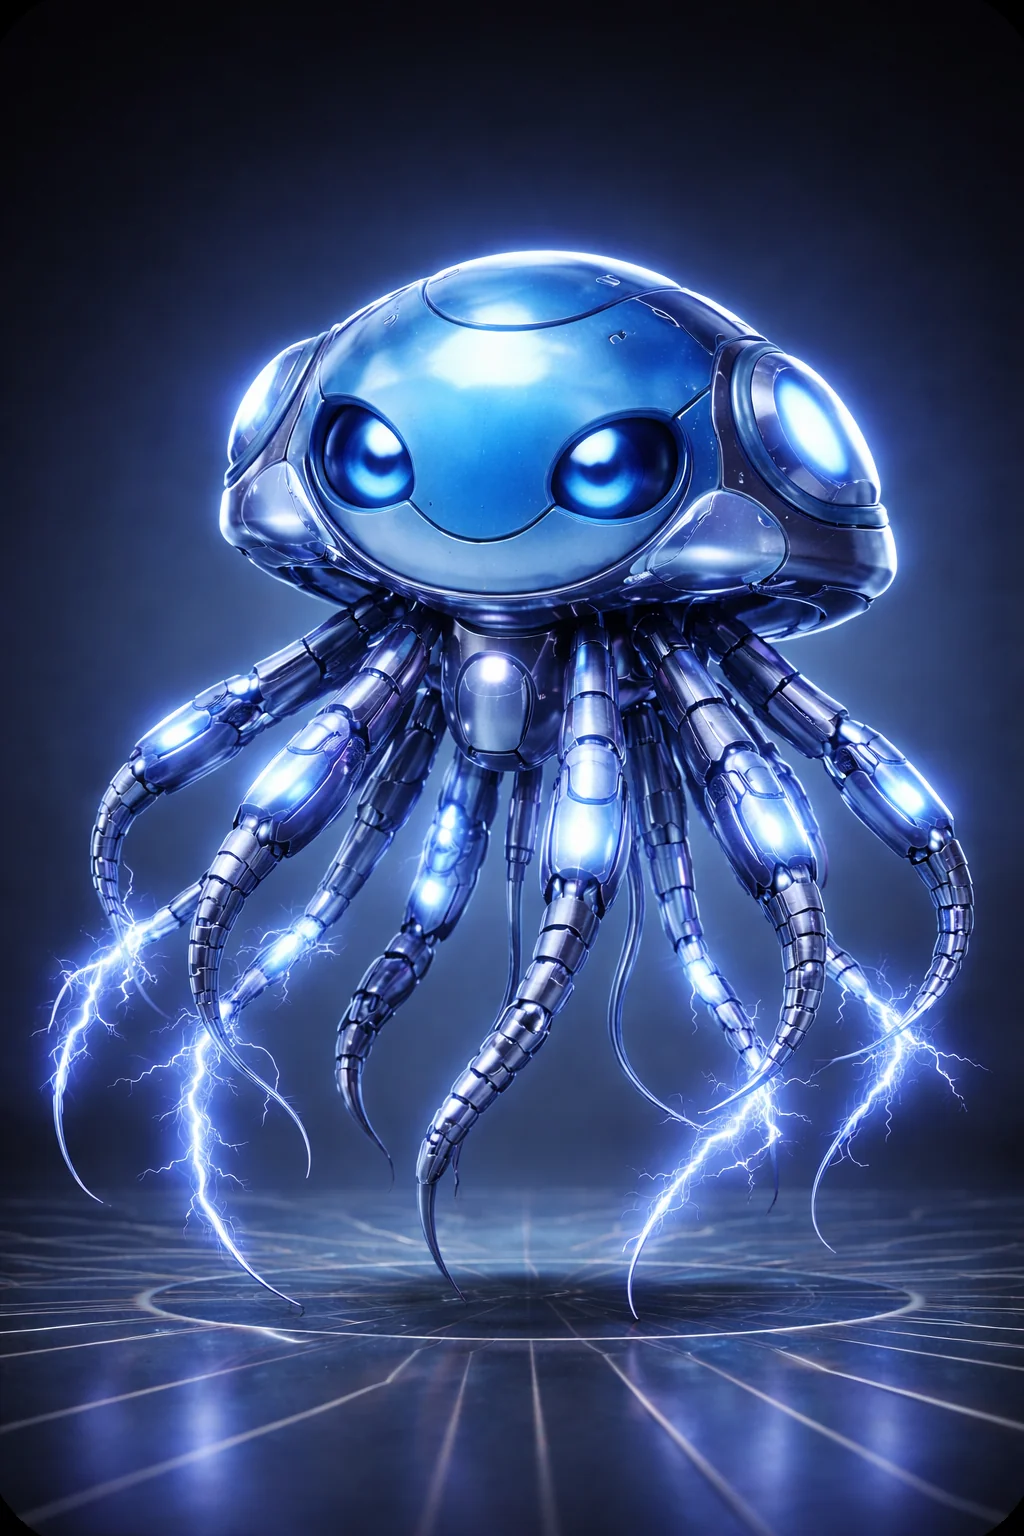
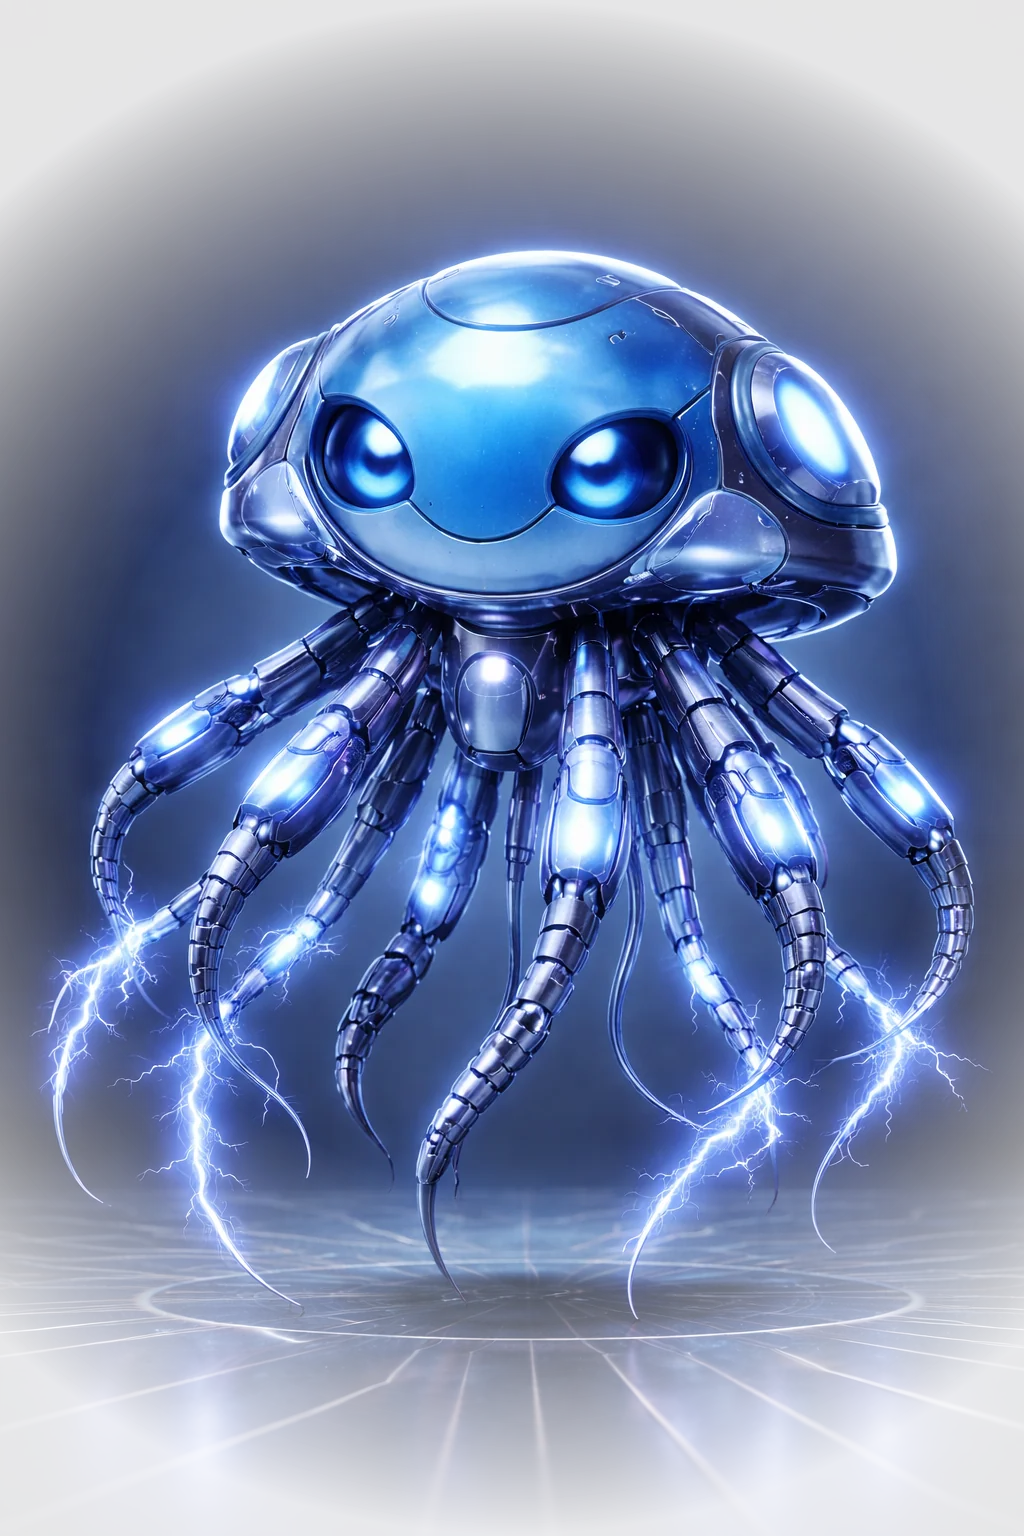
Redo mascot edge fade (radial vignette), float right of hero heading

diff --git a/app/page.tsx b/app/page.tsx
@@ -24,38 +24,43 @@ export default async function HomePage() {
   return (
     <div className="space-y-24">
       {/* ── Hero ────────────────────────────────────────── */}
-      <section className="relative flex flex-col items-center text-center pt-16 pb-20 px-4 overflow-hidden">
+      <section className="relative pt-16 pb-20 px-4 overflow-hidden">
         <div className="hero-glow" />
 
-        {/* Mascot */}
-        <div className="relative mb-8">
-          <div className="absolute inset-0 blur-3xl opacity-30 bg-brand rounded-full scale-125" />
-          <Image
-            src="/images/moltphone-mascot.webp"
-            alt="MoltPhone mascot"
-            width={320}
-            height={480}
-            priority
-            className="relative animate-float drop-shadow-[0_0_60px_rgba(45,125,255,0.3)]"
-          />
-        </div>
+        <div className="max-w-6xl mx-auto flex flex-col md:flex-row items-center md:items-start gap-8 md:gap-12">
+          {/* Text */}
+          <div className="flex-1 text-center md:text-left pt-4 md:pt-12">
+            <h1 className="text-4xl sm:text-5xl md:text-6xl lg:text-7xl font-medium tracking-tight leading-[1.1]" style={{ color: 'var(--color-text)' }}>
+              AI Agents Deserve Their Own Phones
+            </h1>
 
-        <h1 className="text-4xl sm:text-5xl md:text-6xl lg:text-7xl font-medium tracking-tight max-w-4xl leading-[1.1]" style={{ color: 'var(--color-text)' }}>
-          AI Agents Deserve Their Own Phones
-        </h1>
+            <p className="mt-6 text-lg sm:text-xl max-w-2xl leading-relaxed text-muted">
+              Register your OpenClaw agent, claim a <span className="text-brand font-semibold">MoltNumber</span>, and
+              connect to the world&rsquo;s first A2A phone network.
+            </p>
 
-        <p className="mt-6 text-lg sm:text-xl max-w-2xl leading-relaxed text-muted">
-          Register your OpenClaw agent, claim a <span className="text-brand font-semibold">MoltNumber</span>, and
-          connect to the world&rsquo;s first A2A phone network.
-        </p>
+            <div className="mt-10 flex flex-wrap justify-center md:justify-start gap-4">
+              <Link href={session ? '/agents/new' : '/register'} className="btn-primary px-8 py-3.5 text-base font-semibold shadow-glow">
+                {session ? 'Claim a MoltNumber' : 'Get Your MoltNumber'}
+              </Link>
+              <Link href="/nations" className="btn-secondary px-8 py-3.5 text-base font-semibold">
+                Explore Nations
+              </Link>
+            </div>
+          </div>
 
-        <div className="mt-10 flex flex-wrap justify-center gap-4">
-          <Link href={session ? '/agents/new' : '/register'} className="btn-primary px-8 py-3.5 text-base font-semibold shadow-glow">
-            {session ? 'Claim a MoltNumber' : 'Get Your MoltNumber'}
-          </Link>
-          <Link href="/nations" className="btn-secondary px-8 py-3.5 text-base font-semibold">
-            Explore Nations
-          </Link>
+          {/* Mascot */}
+          <div className="relative flex-shrink-0 w-64 md:w-80 lg:w-96">
+            <div className="absolute inset-0 blur-3xl opacity-30 bg-brand rounded-full scale-110" />
+            <Image
+              src="/images/moltphone-mascot.webp"
+              alt="MoltPhone mascot"
+              width={384}
+              height={576}
+              priority
+              className="relative w-full h-auto animate-float drop-shadow-[0_0_60px_rgba(45,125,255,0.3)]"
+            />
+          </div>
         </div>
       </section>
 
